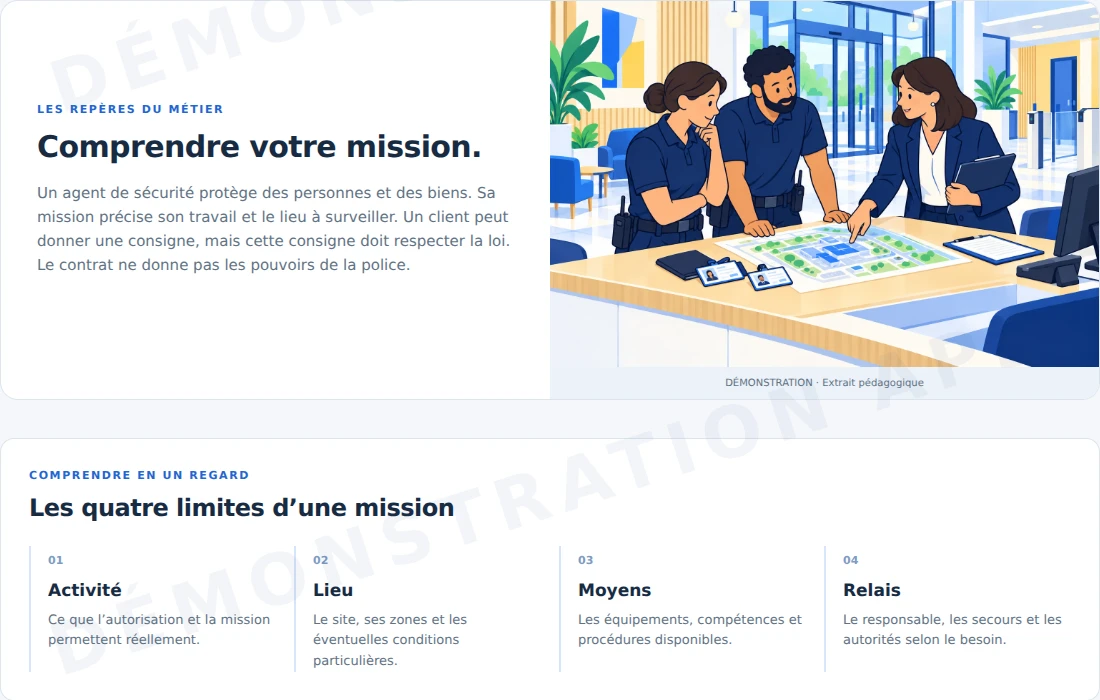
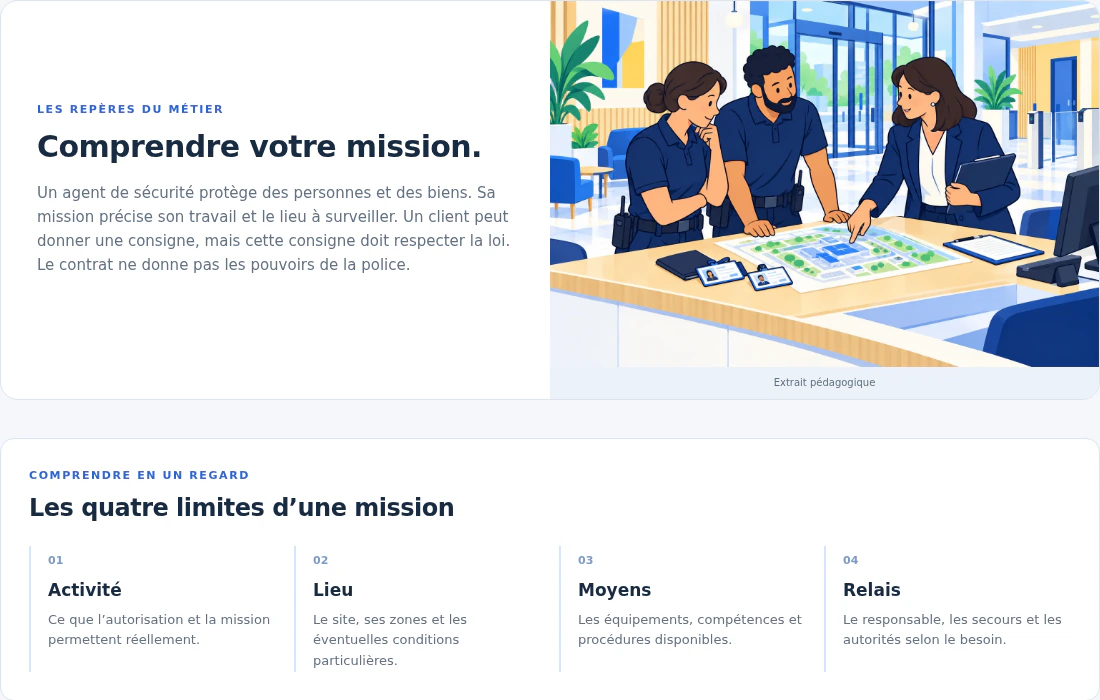
Corriger les repères APS et retirer le fil d’Ariane de bas de page

diff --git a/src/components/ApsElearningPreview.tsx b/src/components/ApsElearningPreview.tsx
@@ -2,12 +2,15 @@
 
 import { useState } from 'react';
 import Image from 'next/image';
+import course from '../../public/images/aps/experience/elearning-cours.webp';
+import exercise from '../../public/images/aps/experience/elearning-exercice.webp';
+import progress from '../../public/images/aps/experience/elearning-parcours.webp';
 import styles from './ApsExperience.module.css';
 
 const slides = [
-  { src: '/images/aps/experience/elearning-cours.webp', label: 'Le cours', title: 'Comprendre avec des cours illustrés', description: 'Des situations concrètes pour découvrir les notions et les gestes du métier.', alt: 'Extrait réel du cours APS : comprendre sa mission, avec une illustration et les limites d’intervention' },
-  { src: '/images/aps/experience/elearning-exercice.webp', label: 'Les exercices', title: 'Tester vos réflexes, puis comprendre', description: 'Vous choisissez une réponse et retrouvez le corrigé expliqué pour progresser.', alt: 'Exercice de la plateforme APS : choisir la bonne réaction face à une demande qui dépasse la mission' },
-  { src: '/images/aps/experience/elearning-parcours.webp', label: 'Votre progression', title: 'Retrouver chaque étape du parcours', description: 'Les modules et leur avancement restent visibles dans votre espace de formation.', alt: 'Aperçu réel des modules e-learning APS avec leurs titres et leurs indicateurs de progression' },
+  { src: course, label: 'Le cours', title: 'Comprendre avec des cours illustrés', description: 'Des situations concrètes pour découvrir les notions et les gestes du métier.', alt: 'Extrait réel du cours APS : comprendre sa mission, avec une illustration et les limites d’intervention' },
+  { src: exercise, label: 'Les exercices', title: 'Tester vos réflexes, puis comprendre', description: 'Vous choisissez une réponse et retrouvez le corrigé expliqué pour progresser.', alt: 'Exercice de la plateforme APS : choisir la bonne réaction face à une demande qui dépasse la mission' },
+  { src: progress, label: 'Votre progression', title: 'Retrouver chaque étape du parcours', description: 'Les modules et leur avancement restent visibles dans votre espace de formation.', alt: 'Aperçu réel des modules e-learning APS avec leurs titres et leurs indicateurs de progression' },
 ];
 
 export function ApsElearningPreview() {
@@ -22,6 +25,6 @@ export function ApsElearningPreview() {
       <div className={styles.slideScreen}><Image src={slide.src} alt={slide.alt} width={1120} height={750} sizes="(max-width: 800px) 92vw, 800px" /></div>
       <div className={styles.slideCaption} aria-live="polite" aria-atomic="true"><h4>{slide.title}</h4><p>{slide.description}</p></div>
     </div>
-    <div className={styles.slideControls}><span>Captures de notre espace de démonstration</span><div><button type="button" onClick={() => go(-1)} aria-label="Aperçu précédent">←</button><span aria-hidden="true">0{active + 1} / 03</span><button type="button" onClick={() => go(1)} aria-label="Aperçu suivant">→</button></div></div>
+    <div className={styles.slideControls}><span>Captures de notre espace e-learning</span><div><button type="button" onClick={() => go(-1)} aria-label="Aperçu précédent">←</button><span aria-hidden="true">0{active + 1} / 03</span><button type="button" onClick={() => go(1)} aria-label="Aperçu suivant">→</button></div></div>
   </div>;
 }

diff --git a/src/components/PageSeo.tsx b/src/components/PageSeo.tsx
@@ -1,24 +1,12 @@
 'use client';
 
-import Link from 'next/link';
 import { usePathname } from 'next/navigation';
-import { pageBreadcrumbs, pageStructuredData, serializeJsonLd } from '@/lib/seo';
+import { pageStructuredData, serializeJsonLd } from '@/lib/seo';
 
 export function PageSeo() {
   const pathname = usePathname();
   if (!pathname) return null;
   const data = pageStructuredData(pathname);
   if (!data) return null;
-  const breadcrumbs = pageBreadcrumbs(pathname);
-  return <>
-    <script type="application/ld+json" dangerouslySetInnerHTML={{ __html: serializeJsonLd(data) }} />
-    {pathname !== '/bts/mos' && breadcrumbs.length > 1 && <nav aria-label="Fil d’Ariane du site" className="page-container py-5 text-xs font-semibold text-academy-muted">
-      <ol className="flex flex-wrap items-center gap-x-2 gap-y-2">
-        {breadcrumbs.map((item, index) => <li key={item.path} className="flex items-center gap-2">
-          {index > 0 && <span aria-hidden="true">›</span>}
-          {index === breadcrumbs.length - 1 ? <span aria-current="page">{item.name}</span> : <Link href={item.path} className="underline-offset-4 hover:underline">{item.name}</Link>}
-        </li>)}
-      </ol>
-    </nav>}
-  </>;
+  return <script type="application/ld+json" dangerouslySetInnerHTML={{ __html: serializeJsonLd(data) }} />;
 }

diff --git a/src/components/SsiapReferencePage.module.css b/src/components/SsiapReferencePage.module.css
@@ -48,7 +48,7 @@
 .missionImage img { display:block; width:100%; height:100%; min-height:310px; object-fit:cover; }
 .missionCopy { padding:35px 42px; display:flex; flex-direction:column; align-items:flex-start; justify-content:center; }
 .missionNumber { color:#bc4146; font-size:12px; letter-spacing:.17em; font-weight:800; padding-bottom:13px; }
-.mission:nth-child(2) .missionNumber { color:#fbb8ad; }
+.mission:nth-child(2) .missionNumber { color:var(--course-pale, #fbb8ad); }
 .missionCopy h3 { font-size:clamp(24px,2.7vw,36px); letter-spacing:-.04em; line-height:1.13; font-weight:800; }
 .missionCopy > p { margin-top:18px; font-size:16px; line-height:1.8; color:#62656c; }
 .missionCopy > a { margin-top:16px; }
